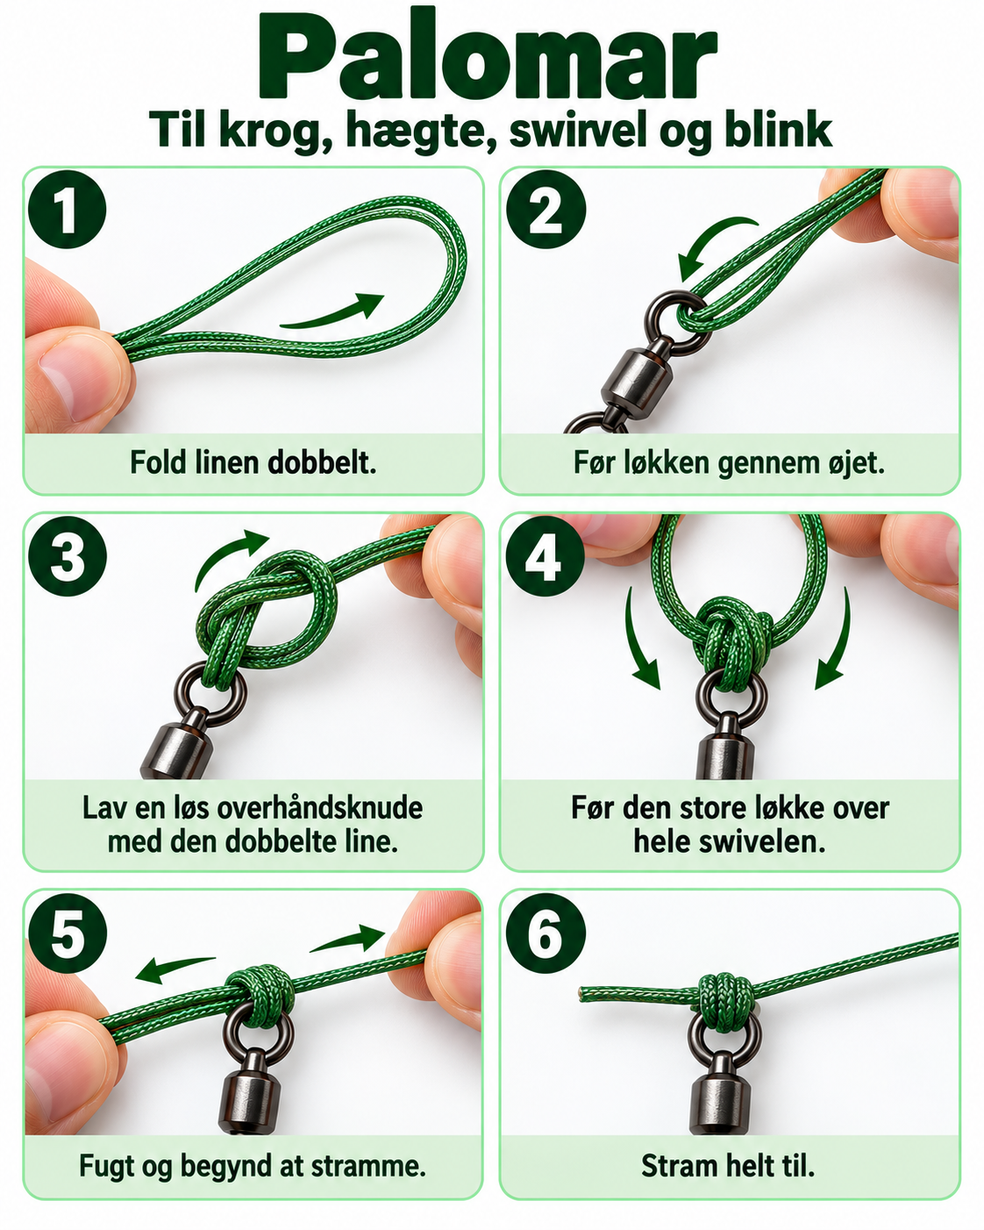
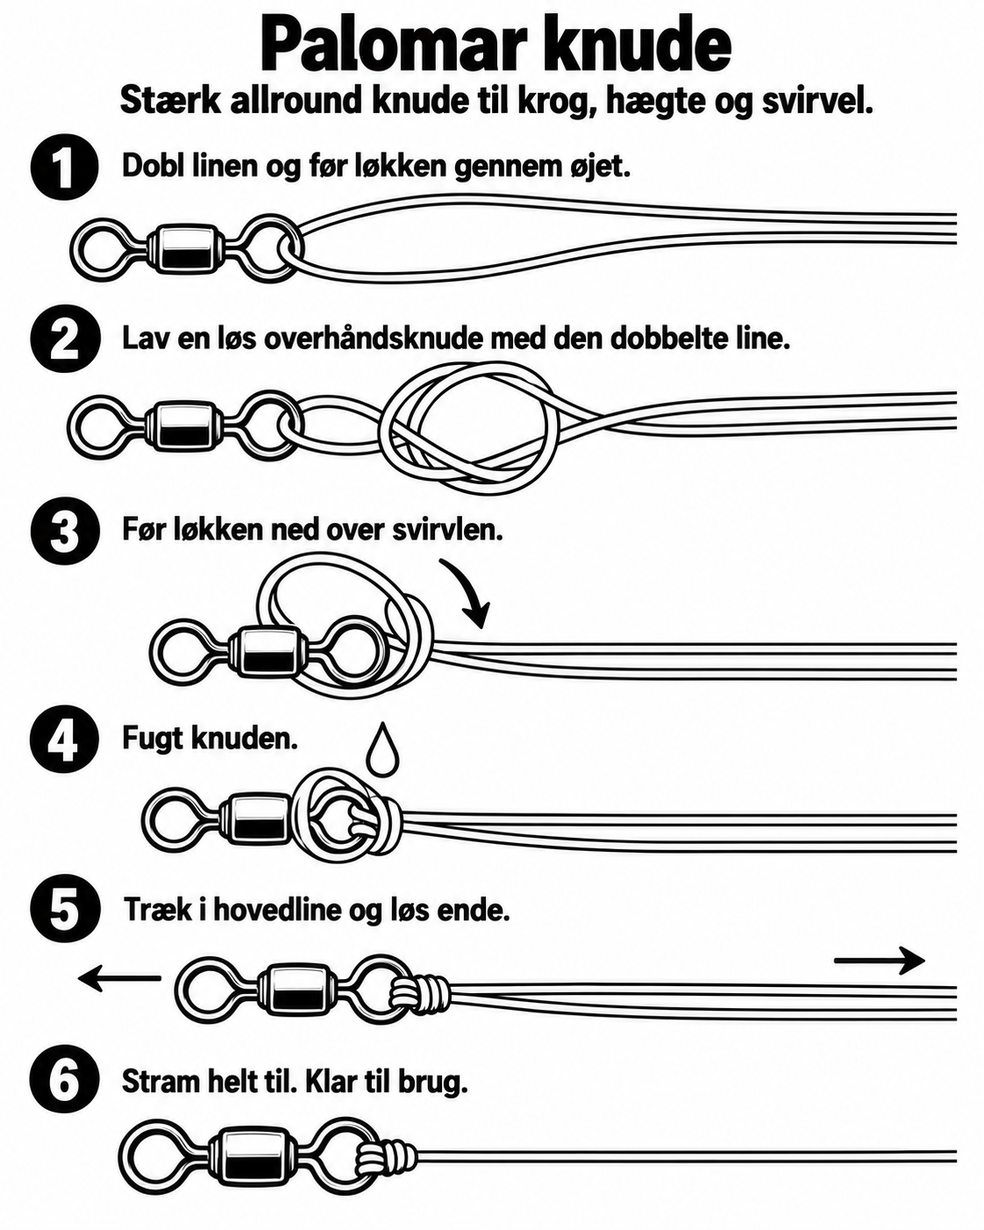
Opdater Knudeguiden v2 med alle godkendte knudebilleder

diff --git a/index.html b/index.html
@@ -1,29 +1,27 @@
-<!doctype html><html lang="da"><head><meta charset="utf-8"><meta name="viewport" content="width=device-width,initial-scale=1,viewport-fit=cover"><meta name="theme-color" content="#163d2c"><meta name="apple-mobile-web-app-capable" content="yes"><meta name="apple-mobile-web-app-status-bar-style" content="default"><meta name="apple-mobile-web-app-title" content="Knudeguiden"><link rel="apple-touch-icon" href="icon-180.png"><link rel="manifest" href="manifest.webmanifest"><title>Knudeguiden</title><style>
-:root{--g:#163d2c;--b:#65462f;--bg:#f4f7f4;--card:#fff;--line:#dce5df;--muted:#68736c}*{box-sizing:border-box}body{margin:0;background:var(--bg);font-family:-apple-system,BlinkMacSystemFont,"Segoe UI",Arial,sans-serif;color:#17231c}main{max-width:820px;margin:auto;padding:calc(18px + env(safe-area-inset-top)) 14px calc(34px + env(safe-area-inset-bottom))}h1{font-size:38px;margin:8px 0}.lead{color:var(--muted);font-size:17px;line-height:1.45}.home{display:grid;gap:14px;margin:22px 0}.home a{text-decoration:none;color:#fff;border-radius:24px;padding:26px;font-size:30px;font-weight:850;box-shadow:0 8px 22px #0002}.home small{display:block;font-size:15px;font-weight:500;margin-top:8px}.fish{background:var(--g)}.out{background:var(--b)}.back{display:inline-block;text-decoration:none;color:var(--g);background:#e8f0ea;padding:11px 14px;border-radius:14px;font-weight:800;margin:10px 0}h2{font-size:28px;margin:10px 0}.statusbox{background:#fff;border:1px solid var(--line);border-radius:18px;padding:14px;margin:12px 0 18px;line-height:1.45}.knot{background:var(--card);border:1px solid var(--line);border-radius:18px;margin:10px 0;overflow:hidden}summary{list-style:none;display:flex;align-items:center;gap:12px;padding:15px;cursor:pointer}summary::-webkit-details-marker{display:none}.num{width:40px;height:40px;border-radius:12px;background:#e8f0ea;color:var(--g);display:flex;align-items:center;justify-content:center;font-weight:900;flex:0 0 40px}.sum b{display:block;font-size:18px}.sum small{display:block;color:var(--muted);font-size:14px;margin-top:4px}.approved,.pending{display:inline-block;margin-top:8px;border-radius:999px;padding:5px 8px;font-size:11px;font-weight:900}.approved{background:#e6f5e9;color:#176b2c}.pending{background:#f4f0e8;color:#7a5b2e}.detail{padding:0 12px 14px}.detail img{display:block;width:100%;height:auto;border-radius:14px;border:1px solid var(--line)}.placeholder{background:#eef2ef;border:1px dashed #b9c6be;border-radius:14px;padding:30px 18px;text-align:center;color:var(--muted);font-weight:700}section{scroll-margin-top:10px}footer{text-align:center;color:var(--muted);font-size:12px;margin-top:26px}
-</style></head><body><main id="top"><h1>Knudeguiden</h1><p class="lead">Fiskeri og outdoor. Store billeder, få trin og enkel betjening, også når det er mørkt, koldt eller fingrene er stive.</p><div class="home"><a class="fish" href="#fiskeri">🎣 Fiskeri<small>10 knuder til flåd, bombarda, forfang, fluer og agn</small></a><a class="out" href="#outdoor">🏕 Outdoor<small>18 knuder til lejr, tarp, fastgørelse og bikepacking</small></a></div><div class="statusbox"><b>Version 1:</b> De knudebilleder du allerede har godkendt er indsat. Resten står tydeligt som “Afventer billede”, så ingen ikke-godkendt illustration kommer med ved en fejl.</div><section id="fiskeri"><a class="back" href="#top">↑ Forside</a><h2>🎣 Fiskeri</h2><details class="knot" id="f-1"><summary><span class="num">1</span><span class="sum"><b>Palomar</b><small>Krog, hægte, svirvel og blink</small><span class="approved">✓ Godkendt</span></span></summary><div class="detail"><img src="images/palomar.png" alt="Palomar trin for trin" loading="lazy"></div></details>
+<!doctype html><html lang="da"><head><meta charset="utf-8"><meta name="viewport" content="width=device-width,initial-scale=1,viewport-fit=cover"><meta name="theme-color" content="#163d2c"><meta name="apple-mobile-web-app-capable" content="yes"><meta name="apple-mobile-web-app-title" content="Knudeguiden"><link rel="apple-touch-icon" href="icon-180.png"><link rel="manifest" href="manifest.webmanifest"><title>Knudeguiden</title><style>:root{--g:#163d2c;--b:#65462f;--bg:#f4f7f4;--card:#fff;--line:#dce5df;--muted:#68736c}*{box-sizing:border-box}body{margin:0;background:var(--bg);font-family:-apple-system,BlinkMacSystemFont,"Segoe UI",Arial,sans-serif;color:#17231c}main{max-width:820px;margin:auto;padding:calc(18px + env(safe-area-inset-top)) 14px calc(34px + env(safe-area-inset-bottom))}h1{font-size:38px;margin:8px 0}.lead{color:var(--muted);font-size:17px;line-height:1.45}.home{display:grid;gap:14px;margin:22px 0}.home a{text-decoration:none;color:#fff;border-radius:24px;padding:26px;font-size:30px;font-weight:850;box-shadow:0 8px 22px #0002}.home small{display:block;font-size:15px;font-weight:500;margin-top:8px}.fish{background:var(--g)}.out{background:var(--b)}.back{display:inline-block;text-decoration:none;color:var(--g);background:#e8f0ea;padding:11px 14px;border-radius:14px;font-weight:800;margin:10px 0}h2{font-size:28px;margin:10px 0}.statusbox{background:#fff;border:1px solid var(--line);border-radius:18px;padding:14px;margin:12px 0 18px;line-height:1.45}.knot{background:var(--card);border:1px solid var(--line);border-radius:18px;margin:10px 0;overflow:hidden}summary{list-style:none;display:flex;align-items:center;gap:12px;padding:15px;cursor:pointer}summary::-webkit-details-marker{display:none}.num{width:40px;height:40px;border-radius:12px;background:#e8f0ea;color:var(--g);display:flex;align-items:center;justify-content:center;font-weight:900;flex:0 0 40px}.sum b{display:block;font-size:18px}.sum small{display:block;color:var(--muted);font-size:14px;margin-top:4px}.approved{display:inline-block;margin-top:8px;border-radius:999px;padding:5px 8px;font-size:11px;font-weight:900;background:#e6f5e9;color:#176b2c}.detail{padding:0 12px 14px}.detail img{display:block;width:100%;height:auto;border-radius:14px;border:1px solid var(--line);background:white}section{scroll-margin-top:10px}footer{text-align:center;color:var(--muted);font-size:12px;margin-top:26px}</style></head><body><main id="top"><h1>Knudeguiden</h1><p class="lead">Fiskeri og outdoor. Store trin for trin billeder og enkel betjening, også når det er mørkt, koldt eller fingrene er stive.</p><div class="home"><a class="fish" href="#fiskeri">🎣 Fiskeri<small>10 knuder til flåd, bombarda, forfang, fluer og agn</small></a><a class="out" href="#outdoor">🏕 Outdoor<small>18 knuder til lejr, tarp, fastgørelse og bikepacking</small></a></div><div class="statusbox"><b>Version 2.0</b><br>Alle knudeposter har nu billede. Godkendte billeder er låst og ændres kun, hvis du selv beder om det.</div><section id="fiskeri"><a class="back" href="#top">↑ Forside</a><h2>🎣 Fiskeri</h2><details class="knot" id="f-1"><summary><span class="num">1</span><span class="sum"><b>Palomar</b><small>Krog, hægte, svirvel og blink</small><span class="approved">✓ Godkendt</span></span></summary><div class="detail"><img src="images/palomar.png" alt="Palomar trin for trin" loading="lazy"></div></details>
 <details class="knot" id="f-2"><summary><span class="num">2</span><span class="sum"><b>Uni knude</b><small>Krog, hægte og svirvel</small><span class="approved">✓ Godkendt</span></span></summary><div class="detail"><img src="images/uni.png" alt="Uni knude trin for trin" loading="lazy"></div></details>
-<details class="knot" id="f-3"><summary><span class="num">3</span><span class="sum"><b>Improved Clinch</b><small>Krog, flue og små agn</small><span class="pending">Afventer billede</span></span></summary><div class="detail"><div class="placeholder">Illustration indsættes efter godkendelse</div></div></details>
-<details class="knot" id="f-4"><summary><span class="num">4</span><span class="sum"><b>Double Uni</b><small>Fletline til nylon eller fluorocarbon</small><span class="pending">Afventer billede</span></span></summary><div class="detail"><div class="placeholder">Illustration indsættes efter godkendelse</div></div></details>
-<details class="knot" id="f-5"><summary><span class="num">5</span><span class="sum"><b>Kirurgknude</b><small>Hurtig samling af forfang og line</small><span class="pending">Afventer billede</span></span></summary><div class="detail"><div class="placeholder">Illustration indsættes efter godkendelse</div></div></details>
-<details class="knot" id="f-6"><summary><span class="num">6</span><span class="sum"><b>Stopperknude</b><small>Glideflåd og bombarda</small><span class="pending">Afventer billede</span></span></summary><div class="detail"><div class="placeholder">Illustration indsættes efter godkendelse</div></div></details>
+<details class="knot" id="f-3"><summary><span class="num">3</span><span class="sum"><b>Improved Clinch</b><small>Krog, flue og små agn</small><span class="approved">✓ Godkendt</span></span></summary><div class="detail"><img src="images/improved-clinch.png" alt="Improved Clinch trin for trin" loading="lazy"></div></details>
+<details class="knot" id="f-4"><summary><span class="num">4</span><span class="sum"><b>Double Uni</b><small>Fletline til nylon eller fluorocarbon</small><span class="approved">✓ Godkendt</span></span></summary><div class="detail"><img src="images/double-uni.png" alt="Double Uni trin for trin" loading="lazy"></div></details>
+<details class="knot" id="f-5"><summary><span class="num">5</span><span class="sum"><b>Kirurgknude</b><small>Hurtig samling af forfang og line</small><span class="approved">✓ Godkendt</span></span></summary><div class="detail"><img src="images/kirurgknude.png" alt="Kirurgknude trin for trin" loading="lazy"></div></details>
+<details class="knot" id="f-6"><summary><span class="num">6</span><span class="sum"><b>Stopperknude</b><small>Glideflåd og bombarda</small><span class="approved">✓ Godkendt</span></span></summary><div class="detail"><img src="images/stopperknude.png" alt="Stopperknude trin for trin" loading="lazy"></div></details>
 <details class="knot" id="f-7"><summary><span class="num">7</span><span class="sum"><b>Non Slip / Rapala knude</b><small>Fluer, woblere og gummidyr med fri bevægelse</small><span class="approved">✓ Godkendt</span></span></summary><div class="detail"><img src="images/rapala.png" alt="Non Slip / Rapala knude trin for trin" loading="lazy"></div></details>
-<details class="knot" id="f-8"><summary><span class="num">8</span><span class="sum"><b>Albright</b><small>Saml liner med forskellig tykkelse</small><span class="pending">Afventer billede</span></span></summary><div class="detail"><div class="placeholder">Illustration indsættes efter godkendelse</div></div></details>
-<details class="knot" id="f-9"><summary><span class="num">9</span><span class="sum"><b>Surgeon’s End Loop</b><small>Fast løkke på forfang</small><span class="pending">Afventer billede</span></span></summary><div class="detail"><div class="placeholder">Illustration indsættes efter godkendelse</div></div></details>
-<details class="knot" id="f-10"><summary><span class="num">10</span><span class="sum"><b>Rapala knude</b><small>Løkkeknude til agn med fri bevægelse</small><span class="approved">✓ Godkendt</span></span></summary><div class="detail"><img src="images/rapala.png" alt="Rapala knude trin for trin" loading="lazy"></div></details></section><section id="outdoor"><a class="back" href="#top">↑ Forside</a><h2>🏕 Outdoor</h2><details class="knot" id="o-1"><summary><span class="num">1</span><span class="sum"><b>Sibirisk knob</b><small>Quick release omkring træ eller pæl</small><span class="pending">Afventer billede</span></span></summary><div class="detail"><div class="placeholder">Illustration indsættes efter godkendelse</div></div></details>
-<details class="knot" id="o-2"><summary><span class="num">2</span><span class="sum"><b>Miller’s Knot</b><small>Liggeunderlag, tæpper og bundter</small><span class="pending">Afventer billede</span></span></summary><div class="detail"><div class="placeholder">Illustration indsættes efter godkendelse</div></div></details>
-<details class="knot" id="o-3"><summary><span class="num">3</span><span class="sum"><b>Dobbelt halvstik</b><small>Fastgørelse omkring pæl eller ring</small><span class="pending">Afventer billede</span></span></summary><div class="detail"><div class="placeholder">Illustration indsættes efter godkendelse</div></div></details>
-<details class="knot" id="o-4"><summary><span class="num">4</span><span class="sum"><b>Tømmerstik</b><small>Træ, stamme og større emner</small><span class="pending">Afventer billede</span></span></summary><div class="detail"><div class="placeholder">Illustration indsættes efter godkendelse</div></div></details>
-<details class="knot" id="o-5"><summary><span class="num">5</span><span class="sum"><b>Clove Hitch</b><small>Hurtig midlertidig fastgørelse</small><span class="pending">Afventer billede</span></span></summary><div class="detail"><div class="placeholder">Illustration indsættes efter godkendelse</div></div></details>
-<details class="knot" id="o-6"><summary><span class="num">6</span><span class="sum"><b>Lærkehoved</b><small>Rem, ring og hurtig fastgørelse</small><span class="pending">Afventer billede</span></span></summary><div class="detail"><div class="placeholder">Illustration indsættes efter godkendelse</div></div></details>
-<details class="knot" id="o-7"><summary><span class="num">7</span><span class="sum"><b>Pælestik</b><small>Fast løkke der ikke strammer til</small><span class="pending">Afventer billede</span></span></summary><div class="detail"><div class="placeholder">Illustration indsættes efter godkendelse</div></div></details>
-<details class="knot" id="o-8"><summary><span class="num">8</span><span class="sum"><b>Ottetalsknude</b><small>Enkel stopperknude</small><span class="pending">Afventer billede</span></span></summary><div class="detail"><div class="placeholder">Illustration indsættes efter godkendelse</div></div></details>
-<details class="knot" id="o-9"><summary><span class="num">9</span><span class="sum"><b>Alpine Butterfly</b><small>Fast løkke midt på rebet</small><span class="pending">Afventer billede</span></span></summary><div class="detail"><div class="placeholder">Illustration indsættes efter godkendelse</div></div></details>
-<details class="knot" id="o-10"><summary><span class="num">10</span><span class="sum"><b>Bardunstik</b><small>Justerbar knude til barduner</small><span class="pending">Afventer billede</span></span></summary><div class="detail"><div class="placeholder">Illustration indsættes efter godkendelse</div></div></details>
-<details class="knot" id="o-11"><summary><span class="num">11</span><span class="sum"><b>Lastbilknude</b><small>Spænd reb hårdt</small><span class="pending">Afventer billede</span></span></summary><div class="detail"><div class="placeholder">Illustration indsættes efter godkendelse</div></div></details>
-<details class="knot" id="o-12"><summary><span class="num">12</span><span class="sum"><b>Prusik</b><small>Justerbar knude på hovedreb</small><span class="pending">Afventer billede</span></span></summary><div class="detail"><div class="placeholder">Illustration indsættes efter godkendelse</div></div></details>
-<details class="knot" id="o-13"><summary><span class="num">13</span><span class="sum"><b>Rolling Hitch</b><small>Fastgørelse på belastet reb</small><span class="pending">Afventer billede</span></span></summary><div class="detail"><div class="placeholder">Illustration indsættes efter godkendelse</div></div></details>
-<details class="knot" id="o-14"><summary><span class="num">14</span><span class="sum"><b>Flagknob</b><small>Saml to reb, også forskellig tykkelse</small><span class="pending">Afventer billede</span></span></summary><div class="detail"><div class="placeholder">Illustration indsættes efter godkendelse</div></div></details>
-<details class="knot" id="o-15"><summary><span class="num">15</span><span class="sum"><b>Råbåndsknob</b><small>Saml to lige tykke reb</small><span class="pending">Afventer billede</span></span></summary><div class="detail"><div class="placeholder">Illustration indsættes efter godkendelse</div></div></details>
-<details class="knot" id="o-16"><summary><span class="num">16</span><span class="sum"><b>Pakke / Parcel Knot</b><small>Bind bundter og udstyr sammen</small><span class="pending">Afventer billede</span></span></summary><div class="detail"><div class="placeholder">Illustration indsættes efter godkendelse</div></div></details>
-<details class="knot" id="o-17"><summary><span class="num">17</span><span class="sum"><b>Råbåndsknob quick release</b><small>Let udstyr der skal åbnes hurtigt</small><span class="pending">Afventer billede</span></span></summary><div class="detail"><div class="placeholder">Illustration indsættes efter godkendelse</div></div></details>
-<details class="knot" id="o-18"><summary><span class="num">18</span><span class="sum"><b>Slipped Clove Hitch</b><small>Hurtig fastgørelse med quick release</small><span class="pending">Afventer billede</span></span></summary><div class="detail"><div class="placeholder">Illustration indsættes efter godkendelse</div></div></details></section><footer>Knudeguiden · mobilvenlig · klar til hjemmeskærm</footer></main><script>if('serviceWorker' in navigator){navigator.serviceWorker.register('sw.js').catch(()=>{})}</script></body></html>
+<details class="knot" id="f-8"><summary><span class="num">8</span><span class="sum"><b>Albright</b><small>Saml liner med forskellig tykkelse</small><span class="approved">✓ Godkendt</span></span></summary><div class="detail"><img src="images/albright.png" alt="Albright trin for trin" loading="lazy"></div></details>
+<details class="knot" id="f-9"><summary><span class="num">9</span><span class="sum"><b>Surgeon’s End Loop</b><small>Fast løkke på forfang</small><span class="approved">✓ Godkendt</span></span></summary><div class="detail"><img src="images/surgeons-end-loop.png" alt="Surgeon’s End Loop trin for trin" loading="lazy"></div></details>
+<details class="knot" id="f-10"><summary><span class="num">10</span><span class="sum"><b>Rapala knude</b><small>Løkkeknude til agn med fri bevægelse</small><span class="approved">✓ Godkendt</span></span></summary><div class="detail"><img src="images/rapala.png" alt="Rapala knude trin for trin" loading="lazy"></div></details></section><section id="outdoor"><a class="back" href="#top">↑ Forside</a><h2>🏕 Outdoor</h2><details class="knot" id="o-1"><summary><span class="num">1</span><span class="sum"><b>Sibirisk knob</b><small>Quick release omkring træ eller pæl</small><span class="approved">✓ Godkendt</span></span></summary><div class="detail"><img src="images/sibirisk-knob.png" alt="Sibirisk knob trin for trin" loading="lazy"></div></details>
+<details class="knot" id="o-2"><summary><span class="num">2</span><span class="sum"><b>Miller’s Knot</b><small>Liggeunderlag, tæpper og bundter</small><span class="approved">✓ Godkendt</span></span></summary><div class="detail"><img src="images/millers-knot.png" alt="Miller’s Knot trin for trin" loading="lazy"></div></details>
+<details class="knot" id="o-3"><summary><span class="num">3</span><span class="sum"><b>Dobbelt halvstik</b><small>Fastgørelse omkring pæl eller ring</small><span class="approved">✓ Godkendt</span></span></summary><div class="detail"><img src="images/dobbelt-halvstik.png" alt="Dobbelt halvstik trin for trin" loading="lazy"></div></details>
+<details class="knot" id="o-4"><summary><span class="num">4</span><span class="sum"><b>Tømmerstik</b><small>Træ, stamme og større emner</small><span class="approved">✓ Godkendt</span></span></summary><div class="detail"><img src="images/toemmerstik.png" alt="Tømmerstik trin for trin" loading="lazy"></div></details>
+<details class="knot" id="o-5"><summary><span class="num">5</span><span class="sum"><b>Clove Hitch</b><small>Hurtig midlertidig fastgørelse</small><span class="approved">✓ Godkendt</span></span></summary><div class="detail"><img src="images/clove-hitch.png" alt="Clove Hitch trin for trin" loading="lazy"></div></details>
+<details class="knot" id="o-6"><summary><span class="num">6</span><span class="sum"><b>Lærkehoved</b><small>Rem, ring og hurtig fastgørelse</small><span class="approved">✓ Godkendt</span></span></summary><div class="detail"><img src="images/laerkehoved.png" alt="Lærkehoved trin for trin" loading="lazy"></div></details>
+<details class="knot" id="o-7"><summary><span class="num">7</span><span class="sum"><b>Pælestik</b><small>Fast løkke der ikke strammer til</small><span class="approved">✓ Godkendt</span></span></summary><div class="detail"><img src="images/paelestik.png" alt="Pælestik trin for trin" loading="lazy"></div></details>
+<details class="knot" id="o-8"><summary><span class="num">8</span><span class="sum"><b>Ottetalsknude</b><small>Enkel stopperknude</small><span class="approved">✓ Godkendt</span></span></summary><div class="detail"><img src="images/ottetalsknude.png" alt="Ottetalsknude trin for trin" loading="lazy"></div></details>
+<details class="knot" id="o-9"><summary><span class="num">9</span><span class="sum"><b>Alpine Butterfly</b><small>Fast løkke midt på rebet</small><span class="approved">✓ Godkendt</span></span></summary><div class="detail"><img src="images/alpine-butterfly.png" alt="Alpine Butterfly trin for trin" loading="lazy"></div></details>
+<details class="knot" id="o-10"><summary><span class="num">10</span><span class="sum"><b>Bardunstik</b><small>Justerbar knude til barduner</small><span class="approved">✓ Godkendt</span></span></summary><div class="detail"><img src="images/bardunstik.png" alt="Bardunstik trin for trin" loading="lazy"></div></details>
+<details class="knot" id="o-11"><summary><span class="num">11</span><span class="sum"><b>Lastbilknude</b><small>Spænd reb hårdt</small><span class="approved">✓ Godkendt</span></span></summary><div class="detail"><img src="images/lastbilknude.png" alt="Lastbilknude trin for trin" loading="lazy"></div></details>
+<details class="knot" id="o-12"><summary><span class="num">12</span><span class="sum"><b>Prusik</b><small>Justerbar knude på hovedreb</small><span class="approved">✓ Godkendt</span></span></summary><div class="detail"><img src="images/prusik.png" alt="Prusik trin for trin" loading="lazy"></div></details>
+<details class="knot" id="o-13"><summary><span class="num">13</span><span class="sum"><b>Rolling Hitch</b><small>Fastgørelse på belastet reb</small><span class="approved">✓ Godkendt</span></span></summary><div class="detail"><img src="images/rolling-hitch.png" alt="Rolling Hitch trin for trin" loading="lazy"></div></details>
+<details class="knot" id="o-14"><summary><span class="num">14</span><span class="sum"><b>Flagknob</b><small>Saml to reb, også forskellig tykkelse</small><span class="approved">✓ Godkendt</span></span></summary><div class="detail"><img src="images/flagknob.png" alt="Flagknob trin for trin" loading="lazy"></div></details>
+<details class="knot" id="o-15"><summary><span class="num">15</span><span class="sum"><b>Råbåndsknob</b><small>Saml to lige tykke reb</small><span class="approved">✓ Godkendt</span></span></summary><div class="detail"><img src="images/raabaandsknob.png" alt="Råbåndsknob trin for trin" loading="lazy"></div></details>
+<details class="knot" id="o-16"><summary><span class="num">16</span><span class="sum"><b>Pakke / Parcel Knot</b><small>Bind bundter og udstyr sammen</small><span class="approved">✓ Godkendt</span></span></summary><div class="detail"><img src="images/parcel-knot.png" alt="Pakke / Parcel Knot trin for trin" loading="lazy"></div></details>
+<details class="knot" id="o-17"><summary><span class="num">17</span><span class="sum"><b>Råbåndsknob quick release</b><small>Let udstyr der skal åbnes hurtigt</small><span class="approved">✓ Godkendt</span></span></summary><div class="detail"><img src="images/raabaandsknob-quick-release.png" alt="Råbåndsknob quick release trin for trin" loading="lazy"></div></details>
+<details class="knot" id="o-18"><summary><span class="num">18</span><span class="sum"><b>Slipped Clove Hitch</b><small>Hurtig fastgørelse med quick release</small><span class="approved">✓ Godkendt</span></span></summary><div class="detail"><img src="images/slipped-clove-hitch.png" alt="Slipped Clove Hitch trin for trin" loading="lazy"></div></details></section><footer>Knudeguiden · version 2.0 · mobilvenlig · offline reserve</footer></main><script>if('serviceWorker' in navigator){navigator.serviceWorker.register('sw.js').catch(()=>{})}</script></body></html>

diff --git a/sw.js b/sw.js
@@ -1,1 +1,1 @@
-const C='knudeguiden-v1';const F=['./','./index.html','./manifest.webmanifest','./icon-180.png','./icon-192.png','./icon-512.png','./images/palomar.png','./images/uni.png','./images/rapala.png'];self.addEventListener('install',e=>e.waitUntil(caches.open(C).then(c=>c.addAll(F))));self.addEventListener('activate',e=>e.waitUntil(self.clients.claim()));self.addEventListener('fetch',e=>e.respondWith(caches.match(e.request).then(r=>r||fetch(e.request))));
+const C='knudeguiden-v2-final';const F=["./", "./index.html", "./manifest.webmanifest", "./icon-180.png", "./icon-192.png", "./icon-512.png", "./images/palomar.png", "./images/uni.png", "./images/improved-clinch.png", "./images/double-uni.png", "./images/kirurgknude.png", "./images/stopperknude.png", "./images/rapala.png", "./images/albright.png", "./images/surgeons-end-loop.png", "./images/sibirisk-knob.png", "./images/millers-knot.png", "./images/dobbelt-halvstik.png", "./images/toemmerstik.png", "./images/clove-hitch.png", "./images/laerkehoved.png", "./images/paelestik.png", "./images/ottetalsknude.png", "./images/alpine-butterfly.png", "./images/bardunstik.png", "./images/lastbilknude.png", "./images/prusik.png", "./images/rolling-hitch.png", "./images/flagknob.png", "./images/raabaandsknob.png", "./images/parcel-knot.png", "./images/raabaandsknob-quick-release.png", "./images/slipped-clove-hitch.png"];self.addEventListener('install',e=>{self.skipWaiting();e.waitUntil(caches.open(C).then(c=>c.addAll(F)))});self.addEventListener('activate',e=>e.waitUntil(caches.keys().then(keys=>Promise.all(keys.filter(k=>k!==C).map(k=>caches.delete(k)))).then(()=>self.clients.claim())));self.addEventListener('fetch',e=>{if(e.request.method!=='GET')return;e.respondWith(fetch(e.request).then(r=>{const c=r.clone();caches.open(C).then(x=>x.put(e.request,c));return r}).catch(()=>caches.match(e.request)))});
